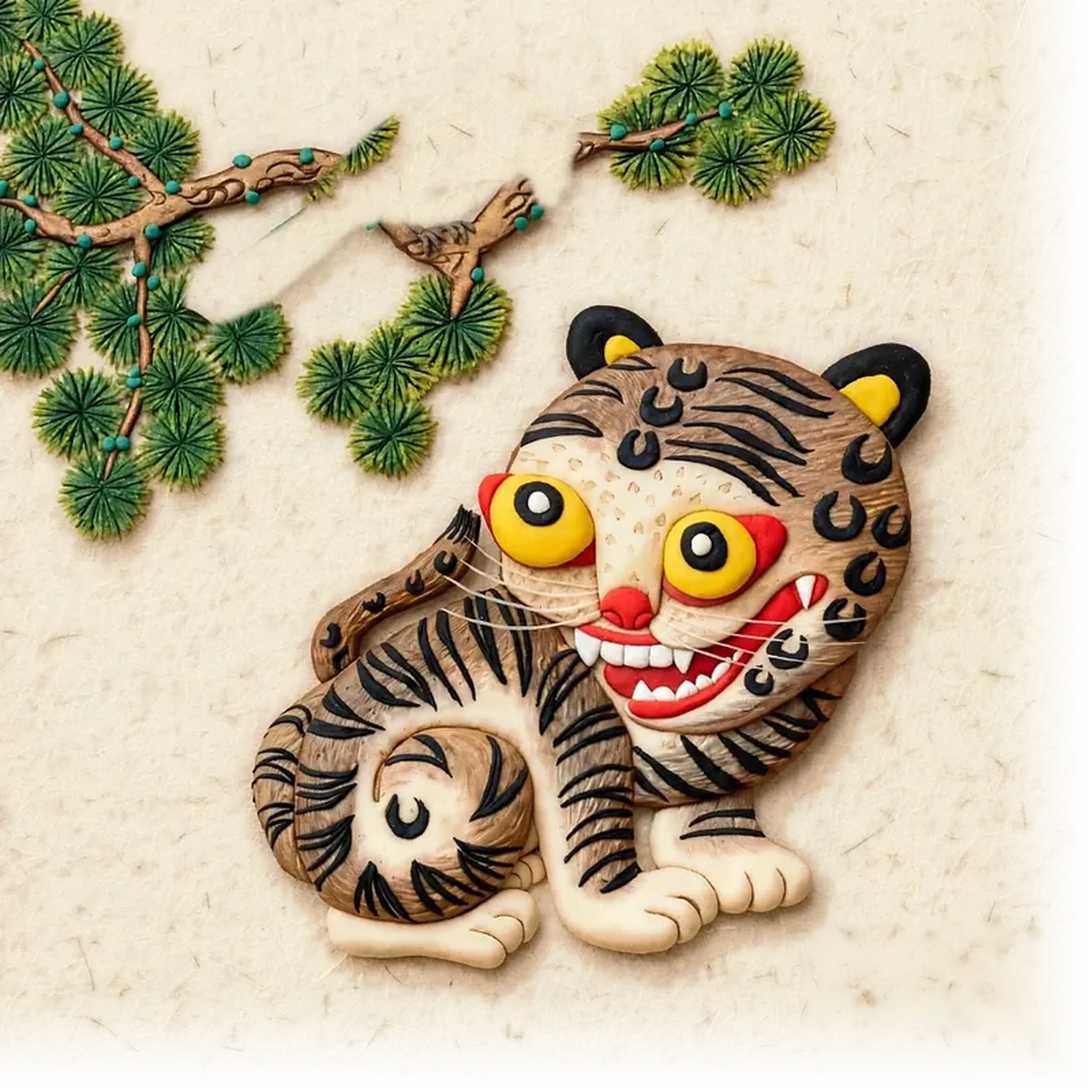
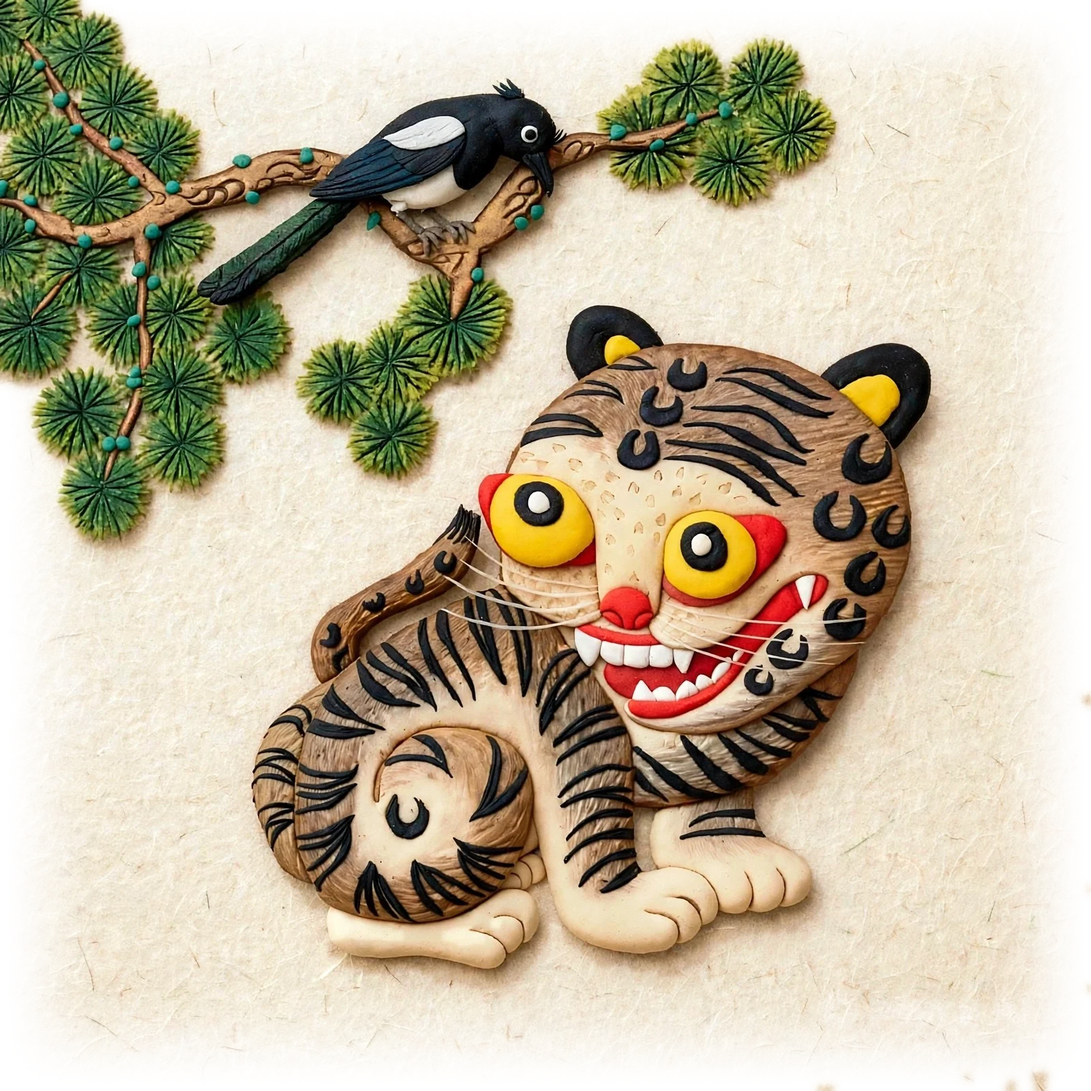
hero: use the artist's final still hojakdo original
- hojakdo-plate now built from the 1600x1600 original (Meta AI watermark
  removed, paper tone matched to the hero hanji, outer margin alpha-feathered)
- magpie parts, their keyframes and the four magpie-*.webp files removed;
  the hero renders one static plate

diff --git a/src/app/globals.css b/src/app/globals.css
@@ -285,82 +285,30 @@
 
 
 /* ==========================================================================
-   HOME hero — the hojakdo plate and its magpie.
+   HOME hero — the hojakdo plate.
 
-   The plate is one transparent PNG: the clay pine, tiger and the empty branch,
-   lifted off its own sheet of paper, so it lies on the page's warm hanji with
-   no card and no seam. The bird is not part of that plate: it ships as four
-   transparent pieces (tail, torso, head, wing) placed on the same 1:1 canvas,
-   each hinged on its own pivot — so the bird turns its head, breathes on the
-   twig and sways its tail without ever opening a hole in the branch behind it.
-
-   Geometry lives in percentages of the square plate, taken from the source
-   artwork (800 × 800), so the pieces stay locked together at every width.
+   One square still image: the clay pine, magpie and tiger exactly as the
+   artist's final original. The sheet's own paper is tone-matched to this
+   hero's hanji and its outer margin feathered to alpha 0, so the plate lies
+   on the page with no card, no frame and no square edge. Nothing on it moves.
    ========================================================================== */
-.magpie-plate {
+.hojakdo-plate {
   position: relative;
   aspect-ratio: 1 / 1;
   width: 100%;
 }
-.magpie-plate > picture,
-.magpie-plate .magpie-base {
+.hojakdo-plate > picture,
+.hojakdo-plate picture img,
+.hojakdo-plate .hojakdo-base {
   position: absolute;
   inset: 0;
   width: 100%;
   height: 100%;
 }
-.magpie-plate picture img,
-.magpie-plate .magpie-base {
-  width: 100%;
-  height: 100%;
+.hojakdo-plate picture img,
+.hojakdo-plate .hojakdo-base {
   object-fit: contain;
   user-select: none;
-}
-
-/* The body carries the whole bird: a small rotation about the branch fork and
-   a lift of about two pixels, which is what a perched bird does. */
-.magpie-anim {
-  position: absolute;
-  inset: 0;
-  transform-origin: 40.5% 20%;
-  animation: magpie-body-sway 3.491s linear infinite;
-  will-change: transform;
-}
-
-.magpie-piece {
-  position: absolute;
-  height: auto;
-  max-width: none;
-  user-select: none;
-}
-.magpie-tail {
-  left: 17.625%;
-  top: 17.5%;
-  width: 17%;
-  transform-origin: 91.91% 9.89%;
-  animation: magpie-tail-sway 3.491s linear infinite;
-  will-change: transform;
-}
-.magpie-torso {
-  left: 31.75%;
-  top: 8.5%;
-  width: 12.75%;
-}
-.magpie-head {
-  left: 42.875%;
-  top: 7.125%;
-  width: 9.5%;
-  transform-origin: 9.21% 54.44%;
-  animation: magpie-head-turn 3.491s linear infinite;
-  will-change: transform;
-}
-.magpie-wing {
-  left: 28.25%;
-  top: 10%;
-  width: 15.75%;
-  transform-origin: 83.33% 34.21%;
-  animation: magpie-wing-sway 3.491s linear infinite;
-  will-change: transform;
 }
 
   /* Scroll cue — a hairline that draws itself downward, once per beat. */
@@ -383,166 +331,6 @@
   }
 }
 
-@keyframes magpie-head-turn {
-  0.0% { transform: rotate(0.000deg); }
-  2.778% { transform: rotate(7.329deg); }
-  5.556% { transform: rotate(11.418deg); }
-  8.333% { transform: rotate(13.107deg); }
-  11.111% { transform: rotate(13.739deg); }
-  13.889% { transform: rotate(13.898deg); }
-  16.667% { transform: rotate(13.787deg); }
-  19.444% { transform: rotate(13.491deg); }
-  22.222% { transform: rotate(13.069deg); }
-  25.0% { transform: rotate(12.582deg); }
-  27.778% { transform: rotate(12.090deg); }
-  30.556% { transform: rotate(11.649deg); }
-  33.333% { transform: rotate(11.306deg); }
-  36.111% { transform: rotate(11.077deg); }
-  38.889% { transform: rotate(10.917deg); }
-  41.667% { transform: rotate(10.626deg); }
-  44.444% { transform: rotate(9.576deg); }
-  47.222% { transform: rotate(6.349deg); }
-  50.0% { transform: rotate(0.000deg); }
-  52.778% { transform: rotate(-6.349deg); }
-  55.556% { transform: rotate(-9.576deg); }
-  58.333% { transform: rotate(-10.626deg); }
-  61.111% { transform: rotate(-10.917deg); }
-  63.889% { transform: rotate(-11.077deg); }
-  66.667% { transform: rotate(-11.306deg); }
-  69.444% { transform: rotate(-11.649deg); }
-  72.222% { transform: rotate(-12.090deg); }
-  75.0% { transform: rotate(-12.582deg); }
-  77.778% { transform: rotate(-13.069deg); }
-  80.556% { transform: rotate(-13.491deg); }
-  83.333% { transform: rotate(-13.787deg); }
-  86.111% { transform: rotate(-13.898deg); }
-  88.889% { transform: rotate(-13.739deg); }
-  91.667% { transform: rotate(-13.107deg); }
-  94.444% { transform: rotate(-11.418deg); }
-  97.222% { transform: rotate(-7.329deg); }
-  100.0% { transform: rotate(-0.000deg); }
-}
-
-@keyframes magpie-body-sway {
-  0.0% { transform: translateY(-0.0000%) rotate(0.000deg); }
-  2.778% { transform: translateY(-0.0608%) rotate(1.088deg); }
-  5.556% { transform: translateY(-0.1197%) rotate(1.670deg); }
-  8.333% { transform: translateY(-0.1750%) rotate(1.888deg); }
-  11.111% { transform: translateY(-0.2250%) rotate(1.961deg); }
-  13.889% { transform: translateY(-0.2681%) rotate(1.987deg); }
-  16.667% { transform: translateY(-0.3031%) rotate(1.996deg); }
-  19.444% { transform: translateY(-0.3289%) rotate(2.000deg); }
-  22.222% { transform: translateY(-0.3447%) rotate(2.001deg); }
-  25.0% { transform: translateY(-0.3500%) rotate(2.002deg); }
-  27.778% { transform: translateY(-0.3447%) rotate(2.001deg); }
-  30.556% { transform: translateY(-0.3289%) rotate(2.000deg); }
-  33.333% { transform: translateY(-0.3031%) rotate(1.996deg); }
-  36.111% { transform: translateY(-0.2681%) rotate(1.987deg); }
-  38.889% { transform: translateY(-0.2250%) rotate(1.961deg); }
-  41.667% { transform: translateY(-0.1750%) rotate(1.888deg); }
-  44.444% { transform: translateY(-0.1197%) rotate(1.670deg); }
-  47.222% { transform: translateY(-0.0608%) rotate(1.088deg); }
-  50.0% { transform: translateY(-0.0000%) rotate(0.000deg); }
-  52.778% { transform: translateY(-0.0608%) rotate(-1.088deg); }
-  55.556% { transform: translateY(-0.1197%) rotate(-1.670deg); }
-  58.333% { transform: translateY(-0.1750%) rotate(-1.888deg); }
-  61.111% { transform: translateY(-0.2250%) rotate(-1.961deg); }
-  63.889% { transform: translateY(-0.2681%) rotate(-1.987deg); }
-  66.667% { transform: translateY(-0.3031%) rotate(-1.996deg); }
-  69.444% { transform: translateY(-0.3289%) rotate(-2.000deg); }
-  72.222% { transform: translateY(-0.3447%) rotate(-2.001deg); }
-  75.0% { transform: translateY(-0.3500%) rotate(-2.002deg); }
-  77.778% { transform: translateY(-0.3447%) rotate(-2.001deg); }
-  80.556% { transform: translateY(-0.3289%) rotate(-2.000deg); }
-  83.333% { transform: translateY(-0.3031%) rotate(-1.996deg); }
-  86.111% { transform: translateY(-0.2681%) rotate(-1.987deg); }
-  88.889% { transform: translateY(-0.2250%) rotate(-1.961deg); }
-  91.667% { transform: translateY(-0.1750%) rotate(-1.888deg); }
-  94.444% { transform: translateY(-0.1197%) rotate(-1.670deg); }
-  97.222% { transform: translateY(-0.0608%) rotate(-1.088deg); }
-  100.0% { transform: translateY(-0.0000%) rotate(-0.000deg); }
-}
-
-@keyframes magpie-tail-sway {
-  0.0% { transform: rotate(0.000deg); }
-  2.778% { transform: rotate(-2.014deg); }
-  5.556% { transform: rotate(-2.821deg); }
-  8.333% { transform: rotate(-2.870deg); }
-  11.111% { transform: rotate(-2.786deg); }
-  13.889% { transform: rotate(-2.851deg); }
-  16.667% { transform: rotate(-3.148deg); }
-  19.444% { transform: rotate(-3.669deg); }
-  22.222% { transform: rotate(-4.362deg); }
-  25.0% { transform: rotate(-5.147deg); }
-  27.778% { transform: rotate(-5.930deg); }
-  30.556% { transform: rotate(-6.615deg); }
-  33.333% { transform: rotate(-7.117deg); }
-  36.111% { transform: rotate(-7.365deg); }
-  38.889% { transform: rotate(-7.300deg); }
-  41.667% { transform: rotate(-6.839deg); }
-  44.444% { transform: rotate(-5.767deg); }
-  47.222% { transform: rotate(-3.582deg); }
-  50.0% { transform: rotate(-0.000deg); }
-  52.778% { transform: rotate(3.582deg); }
-  55.556% { transform: rotate(5.767deg); }
-  58.333% { transform: rotate(6.839deg); }
-  61.111% { transform: rotate(7.300deg); }
-  63.889% { transform: rotate(7.365deg); }
-  66.667% { transform: rotate(7.117deg); }
-  69.444% { transform: rotate(6.615deg); }
-  72.222% { transform: rotate(5.930deg); }
-  75.0% { transform: rotate(5.147deg); }
-  77.778% { transform: rotate(4.362deg); }
-  80.556% { transform: rotate(3.669deg); }
-  83.333% { transform: rotate(3.148deg); }
-  86.111% { transform: rotate(2.851deg); }
-  88.889% { transform: rotate(2.786deg); }
-  91.667% { transform: rotate(2.870deg); }
-  94.444% { transform: rotate(2.821deg); }
-  97.222% { transform: rotate(2.014deg); }
-  100.0% { transform: rotate(0.000deg); }
-}
-
-@keyframes magpie-wing-sway {
-  0.0% { transform: rotate(0.000deg); }
-  2.778% { transform: rotate(0.588deg); }
-  5.556% { transform: rotate(1.105deg); }
-  8.333% { transform: rotate(1.489deg); }
-  11.111% { transform: rotate(1.693deg); }
-  13.889% { transform: rotate(1.693deg); }
-  16.667% { transform: rotate(1.489deg); }
-  19.444% { transform: rotate(1.105deg); }
-  22.222% { transform: rotate(0.588deg); }
-  25.0% { transform: rotate(0.000deg); }
-  27.778% { transform: rotate(-0.588deg); }
-  30.556% { transform: rotate(-1.105deg); }
-  33.333% { transform: rotate(-1.489deg); }
-  36.111% { transform: rotate(-1.693deg); }
-  38.889% { transform: rotate(-1.693deg); }
-  41.667% { transform: rotate(-1.489deg); }
-  44.444% { transform: rotate(-1.105deg); }
-  47.222% { transform: rotate(-0.588deg); }
-  50.0% { transform: rotate(-0.000deg); }
-  52.778% { transform: rotate(0.588deg); }
-  55.556% { transform: rotate(1.105deg); }
-  58.333% { transform: rotate(1.489deg); }
-  61.111% { transform: rotate(1.693deg); }
-  63.889% { transform: rotate(1.693deg); }
-  66.667% { transform: rotate(1.489deg); }
-  69.444% { transform: rotate(1.105deg); }
-  72.222% { transform: rotate(0.588deg); }
-  75.0% { transform: rotate(0.000deg); }
-  77.778% { transform: rotate(-0.588deg); }
-  80.556% { transform: rotate(-1.105deg); }
-  83.333% { transform: rotate(-1.489deg); }
-  86.111% { transform: rotate(-1.693deg); }
-  88.889% { transform: rotate(-1.693deg); }
-  91.667% { transform: rotate(-1.489deg); }
-  94.444% { transform: rotate(-1.105deg); }
-  97.222% { transform: rotate(-0.588deg); }
-  100.0% { transform: rotate(-0.000deg); }
-}
-
 @keyframes scroll-trace {
   0% {
     transform: scaleY(0);
@@ -563,12 +351,6 @@
 
 @media (prefers-reduced-motion: reduce) {
   .scroll-cue > span {
-    animation: none !important;
-  }
-  .magpie-anim,
-  .magpie-tail,
-  .magpie-head,
-  .magpie-wing {
     animation: none !important;
   }
 }

diff --git a/src/components/home/Hero.tsx b/src/components/home/Hero.tsx
@@ -5,19 +5,19 @@ import type { Dictionary, Locale } from "@/i18n";
 import { localeHref } from "@/lib/utils";
 
 /**
- * The hojakdo plate: one square canvas holding the clay pine and tiger as a
- * transparent cut-out, with the magpie laid over it as four separately hinged
- * pieces (tail, torso, head, wing) so it can turn its head and sway on the twig.
- * Percentages are the source artwork's own 800 × 800 geometry.
+ * The hojakdo plate: one square canvas holding the clay pine, magpie and tiger
+ * exactly as the artist's final original — a single still image, no cut-out
+ * parts and no motion. Its outer paper margin is feathered into the hero hanji,
+ * so the sheet has no visible square edge.
  */
 function HojakdoPlate({ alt, className = "" }: { alt: string; className?: string }) {
   return (
-    <div className={`magpie-plate ${className}`}>
+    <div className={`hojakdo-plate ${className}`}>
       <picture>
         <source srcSet="/hero/hojakdo-plate.webp" type="image/webp" />
         {/* eslint-disable-next-line @next/next/no-img-element */}
         <img
-          className="magpie-base"
+          className="hojakdo-base"
           src="/hero/hojakdo-plate.png"
           alt={alt}
           width={1600}
@@ -25,17 +25,6 @@ function HojakdoPlate({ alt, className = "" }: { alt: string; className?: string
           fetchPriority="high"
         />
       </picture>
-
-      <div className="magpie-anim" aria-hidden>
-        {/* eslint-disable-next-line @next/next/no-img-element */}
-        <img className="magpie-piece magpie-tail" src="/hero/magpie-tail.webp" alt="" width={272} height={182} />
-        {/* eslint-disable-next-line @next/next/no-img-element */}
-        <img className="magpie-piece magpie-torso" src="/hero/magpie-body.webp" alt="" width={204} height={190} />
-        {/* eslint-disable-next-line @next/next/no-img-element */}
-        <img className="magpie-piece magpie-head" src="/hero/magpie-head.webp" alt="" width={152} height={180} />
-        {/* eslint-disable-next-line @next/next/no-img-element */}
-        <img className="magpie-piece magpie-wing" src="/hero/magpie-wing.webp" alt="" width={252} height={152} />
-      </div>
     </div>
   );
 }
